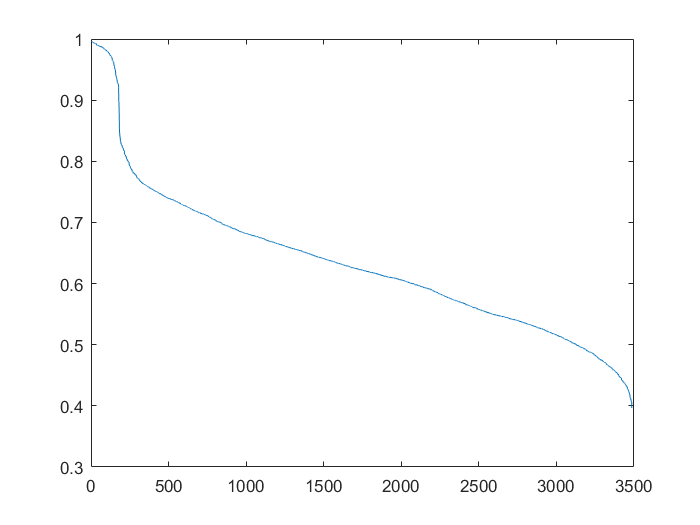
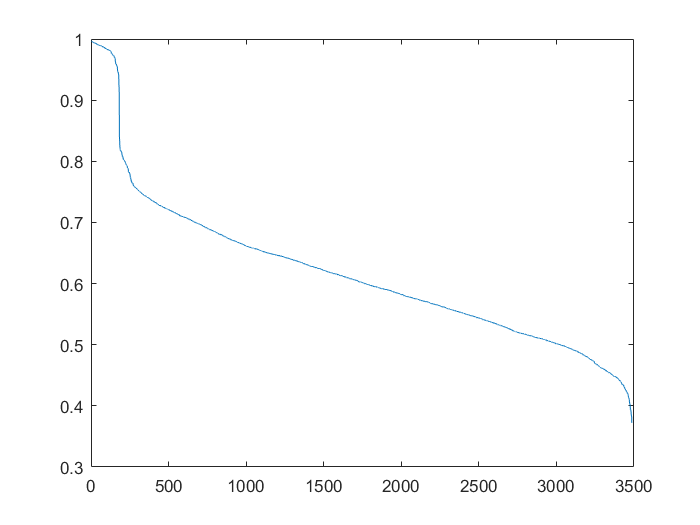
Optimize parameters

diff --git a/src/process/calc_corrs.m b/src/process/calc_corrs.m
@@ -1,4 +1,4 @@
-function corrs = calc_corrs(segments, order, freq, edge_cut)
+function corrs = calc_corrs(segments, order, freq, edge_factor)
     filter_2d = filter_high_pass(order, freq);
     segments_hf = cellfun(@(x) filter2(filter_2d, x, 'same'), ...
        segments, 'UniformOutput', false);
@@ -10,8 +10,12 @@ function corrs = calc_corrs(segments, order, freq, edge_cut)
        for m = k+1:numel(segments_hf)
            img1 = segments_hf{k};
            img2 = segments_hf{m};
-           img1_s = img1(edge_cut:end-edge_cut, edge_cut:end-edge_cut);
-           img2_s = img2(edge_cut:end-edge_cut, edge_cut:end-edge_cut);
+           cut_size = round(size(img1)*edge_factor);
+           img1_s = img1(cut_size(1):end-cut_size(1), ...
+               cut_size(2):end-cut_size(2));
+           cut_size = round(size(img2)*edge_factor);
+           img2_s = img2(cut_size(1):end-cut_size(1), ...
+               cut_size(2):end-cut_size(2));
            c1 = normxcorr2(img1_s, img2);
            c2 = normxcorr2(img2_s, img1);
            corrs(idx, :) = [max(max(c1(:)), max(c2(:))), k, m];

diff --git a/src/process/filter_high_pass.m b/src/process/filter_high_pass.m
@@ -18,8 +18,4 @@ function filter_2d = filter_high_pass(order, freq)
            end
        end
     end
-    
-    % filter_2d = filter_2d + (1-sum(filter_2d(:)))/numel(filter_2d);
-    % img_o = imfilter(img, filter_2d, 'same');
-    % img_o = filter2(filter_2d, img);
 end

diff --git a/report.md b/report.md
@@ -470,8 +470,10 @@ for k = 1:numel(segments_hf)-1
 	for m = k+1:numel(segments_hf)
 		img1 = segments_hf{k};
 		img2 = segments_hf{m};
-		img1_s = img1(edge_cut:end-edge_cut, edge_cut:end-edge_cut);
-        img2_s = img2(edge_cut:end-edge_cut, edge_cut:end-edge_cut);
+		[cut_height, cut_width] = round(size(img1)*edge_factor);
+        img1_s = img1(cut_height:end-cut_height, cut_width:end-cut_width);
+        [cut_height, cut_width] = round(size(img2)*edge_factor);
+        img2_s = img2(cut_height:end-cut_height, cut_width:end-cut_width);
         c1 = normxcorr2(img1_s, img2);
         c2 = normxcorr2(img2_s, img1);
 		corrs(idx, :) = [max(max(c1(:)), max(c2(:))), k, m];
@@ -508,31 +510,31 @@ corrs = sortrows(corrs, 'descend');
 
   ![](report.assets/process/3-no_high_pass_filter.png)
 
-  经检查，相关系数最大的前 182 对均正确配对，实际上，这已经涵盖了所有正确的配对。并且，最后一对正确配对与下一对的相关系数为 0.8304 和 0.8002，变化比较陡峭。从相关系数整体来看，区分度也不错。
+  经检查，相关系数最大的前 182 对均正确配对，实际上，这已经涵盖了所有正确的配对。并且，最后一对正确配对与下一对的相关系数为 0.8962 和 0.7857，变化较陡峭。从相关系数整体来看，区分度也不错。
 
   
 
-- `calc_corrs(segments, 20, 0.2, 5)`
+- `calc_corrs(segments, 20, 0.2, 0.1)`
 
   ![](report.assets/process/3-high_pass_0.2_20.png)
 
-  经检查，程序也正确地完成了所有的配对。但是，最后一对正确配对与下一对的相关系数为 0.8742 和 0.8562，变化没有那么陡峭了。从相关系数整体来看，区分度也没有前一种好。
+  经检查，程序也正确地完成了所有的配对。但是，最后一对正确配对与下一对的相关系数为 0.91 和 0.8425，变化没有那么陡峭了。从相关系数整体来看，区分度也没有前一种好。
 
 
 
-- `calc_corrs(segments, 20, 0.35, 5)`
+- `calc_corrs(segments, 20, 0.35, 0.1)`
 
   ![](report.assets/process/3-high_pass_0.35_20.png)
 
-  经检查，程序正确地完成了所有的配对。最后一对正确配对与下一对的相关系数为 0.7448 和 0.6984，变化非常陡峭。从相关系数整体来看，区分度也非常好。
+  经检查，程序正确地完成了所有的配对。最后一对正确配对与下一对的相关系数为 0.8256 和 0.6847，变化非常陡峭。从相关系数整体来看，区分度也非常好。
 
 
 
-- `calc_corrs(segments, 20, 0.5, 5)`
+- `calc_corrs(segments, 20, 0.5, 0.1)`
 
   ![](report.assets/process/3-high_pass_0.5_20.png)
 
-  经检查，前 181 项程序均正确配对，但第 182 项出现了错误。不过从相关系数整体来看，区分度是比较好的。
+  经检查，程序正确地完成了所有的配对。最后一对正确配对与下一对的相关系数为 0.8647 和 0.7922，变化没有那么陡峭了。
 
 
 
@@ -562,9 +564,9 @@ corrs = sortrows(corrs, 'descend');
 
 先前已经通过 GUI 程序得到所有不是同一种精灵的匹配出现在第 182 项以后。故调用 `show_matches(segments, corrs, 182)` 即可输出结果。
 
-![](report.assets/process/3-matches_incorrect.png)
+![](report.assets/process/4-matches_incorrect.png)
 
-看来程序觉得小锯鳄和妙蛙种子长得比较像，这对 CP 十次里出现了 7 次。但从我的主观感受上来看，二者并没有那么像，只是角度比较一致。另外一对 CP 波波和绿毛虫也出现了 3 次，我也觉得他们角度比较一致，然后尾巴处都有一团灰色的东西。
+看来程序觉得小锯鳄和妙蛙种子长得比较像，这对 CP 十次里出现了 5 次。但从我的主观感受上来看，二者并没有那么像，只是角度比较一致。另外一对 CP 波波和绿毛虫也出现了 5 次，我也觉得是因为他们角度比较一致，然后尾巴处都有一团灰色的东西。
 
 
 
@@ -633,114 +635,114 @@ end
 
 <table>
  <tr>
-  <td>8</td>
-  <td>14</td>
-  <td>8</td>
-  <td>3</td>
+  <td>7</td>
   <td>11</td>
-  <td>17</td>
-  <td>6</td>
-  <td>13</td>
-  <td>1</td>
-  <td>5</td>
-  <td>5</td>
-  <td>12</td>
- </tr>
- <tr>
-  <td>9</td>
-  <td>3</td>
-  <td>12</td>
   <td>7</td>
-  <td>12</td>
-  <td>4</td>
-  <td>1</td>
-  <td>16</td>
-  <td>5</td>
-  <td>19</td>
-  <td>18</td>
-  <td>1</td>
- </tr>
- <tr>
-  <td>10</td>
-  <td>2</td>
-  <td>5</td>
-  <td>19</td>
-  <td>7</td>
-  <td>9</td>
-  <td>6</td>
-  <td>7</td>
-  <td>14</td>
-  <td>6</td>
-  <td>10</td>
-  <td>9</td>
- </tr>
- <tr>
-  <td>7</td>
-  <td>2</td>
-  <td>1</td>
-  <td>7</td>
-  <td>14</td>
-  <td>1</td>
-  <td>6</td>
-  <td>3</td>
-  <td>6</td>
-  <td>9</td>
-  <td>7</td>
-  <td>10</td>
- </tr>
- <tr>
-  <td>18</td>
-  <td>14</td>
-  <td>16</td>
-  <td>11</td>
-  <td>2</td>
-  <td>5</td>
-  <td>2</td>
-  <td>5</td>
   <td>4</td>
   <td>13</td>
-  <td>7</td>
-  <td>3</td>
+  <td>18</td>
+  <td>6</td>
+  <td>12</td>
+  <td>1</td>
+  <td>5</td>
+  <td>5</td>
+  <td>14</td>
  </tr>
  <tr>
-  <td>10</td>
+  <td>9</td>
+  <td>4</td>
+  <td>14</td>
+  <td>8</td>
+  <td>14</td>
+  <td>3</td>
   <td>1</td>
   <td>15</td>
-  <td>10</td>
-  <td>8</td>
-  <td>15</td>
-  <td>10</td>
-  <td>13</td>
-  <td>11</td>
-  <td>4</td>
-  <td>13</td>
+  <td>5</td>
+  <td>17</td>
+  <td>19</td>
   <td>1</td>
  </tr>
  <tr>
-  <td>4</td>
+  <td>10</td>
+  <td>2</td>
+  <td>5</td>
+  <td>17</td>
+  <td>8</td>
+  <td>9</td>
+  <td>6</td>
+  <td>8</td>
+  <td>11</td>
+  <td>6</td>
+  <td>10</td>
+  <td>9</td>
+ </tr>
+ <tr>
+  <td>8</td>
+  <td>2</td>
+  <td>1</td>
+  <td>8</td>
+  <td>11</td>
   <td>1</td>
   <td>6</td>
-  <td>5</td>
+  <td>4</td>
+  <td>6</td>
+  <td>9</td>
+  <td>8</td>
+  <td>10</td>
+ </tr>
+ <tr>
+  <td>19</td>
   <td>11</td>
-  <td>17</td>
+  <td>15</td>
+  <td>13</td>
+  <td>2</td>
+  <td>5</td>
+  <td>2</td>
+  <td>5</td>
+  <td>3</td>
   <td>12</td>
   <td>8</td>
   <td>4</td>
-  <td>5</td>
+ </tr>
+ <tr>
+  <td>10</td>
+  <td>1</td>
+  <td>16</td>
+  <td>10</td>
   <td>7</td>
-  <td>4</td>
+  <td>16</td>
+  <td>10</td>
+  <td>12</td>
+  <td>13</td>
+  <td>3</td>
+  <td>12</td>
+  <td>1</td>
+ </tr>
+ <tr>
+  <td>3</td>
+  <td>1</td>
+  <td>6</td>
+  <td>5</td>
+  <td>13</td>
+  <td>18</td>
+  <td>14</td>
+  <td>7</td>
+  <td>3</td>
+  <td>5</td>
+  <td>8</td>
+  <td>3</td>
  </tr>
 </table>
 
 
 
-调用 `print_legend(segments, patterns, 0.8)`（文件位于 `src/process/print_legend.m`）, 输出图例如下：
+调用 `print_legend(segments, patterns)`（文件位于 `src/process/print_legend.m`）, 输出图例如下：
 
 ![](report.assets/process/5-print_legend.png)
 
 
 
-我们成功的将每一块图案映射为矩阵中的索引。
+我们成功地将每一块图案映射为矩阵中的索引。
 
 
 
@@ -807,3 +809,8 @@ play_simulation(img, segment_locs, game_mat);
 
 ![](report.assets/process/6-play_simu_3.png)
 
+
+
+## 选做：设计真实的自动连连看
+
+为了方便起见，我们没有采用题目中提供的
